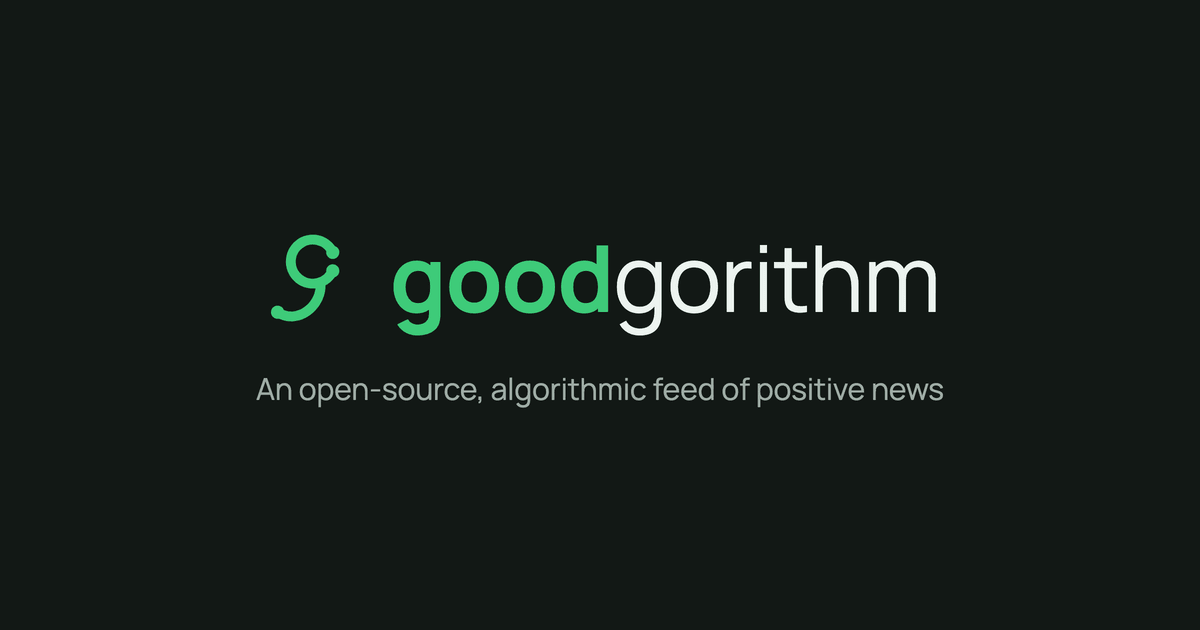
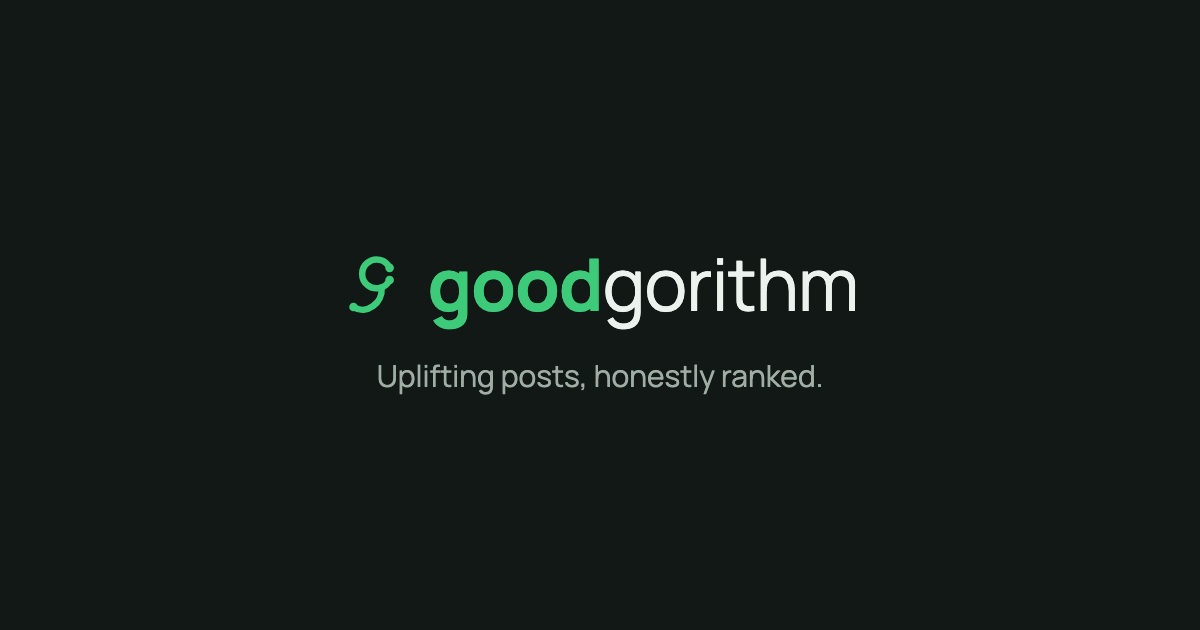
Fix og-image.png's tagline mismatch, and a second stale copy (issue #86)
og-image.png read "An open-source, algorithmic feed of positive news"
since the day it was added (git show da3f797) -- a one-off Playwright
screenshot of copy that was never actually reconciled with the title/
meta tags added in the same commit. Regenerated at the same 1200x630
size using the real wordmark/mark colors and Manrope, with the
on-page header's own tagline ("Uplifting posts, honestly ranked.")
rather than inventing a fourth variant.

While looking for other stale copies of the same summary text (as
requested), found vite.config.ts's PWA manifest description was an
independently-drifted fifth variant ("An algorithmic feed of positive,
uplifting public social posts.") never mentioned in the issue -- now
matches the canonical meta/og/twitter/JSON-LD description exactly.

Checked and left alone: README.md's opening line and src/content/faq.md's
intro serve a different purpose (explanatory prose, not a preview/share
caption) and don't need to match verbatim. web/ios/ and web/android/'s
locally-cached copies of the old text are gitignored Capacitor build
output, not repo state -- they'll pick up the fix on the next native
build/sync, nothing to fix in git.

Changed region(s): [[0.2158, 0.3619, 0.8017, 0.5429], [0.2158, 0.573, 0.8017, 0.6635]]

diff --git a/web/vite.config.ts b/web/vite.config.ts
@@ -13,7 +13,11 @@ export default defineConfig({
         id: "/",
         name: "Goodgorithm",
         short_name: "Goodgorithm",
-        description: "An algorithmic feed of positive, uplifting public social posts.",
+        // Matches index.html's meta description/og:description/twitter:description
+        // and the JSON-LD description exactly -- this used to be its own
+        // independently-drifted fifth variant (issue #86).
+        description:
+          "Goodgorithm surfaces genuinely uplifting posts from across the open social web — a free, open-source feed built to counter doomscrolling, not feed it.",
         start_url: "/",
         display: "standalone",
         background_color: "#121815",
